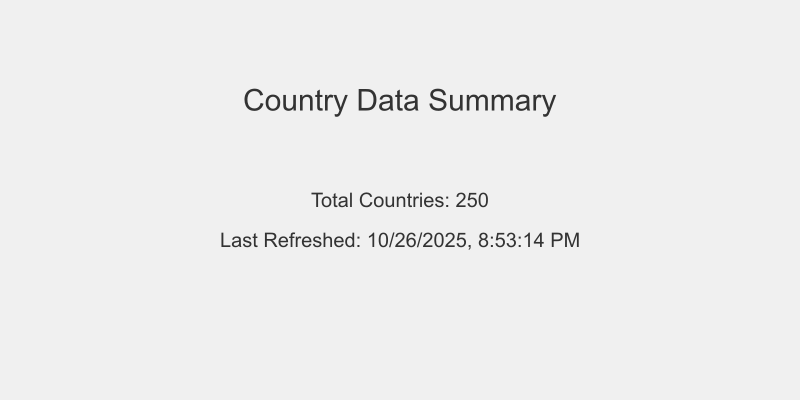
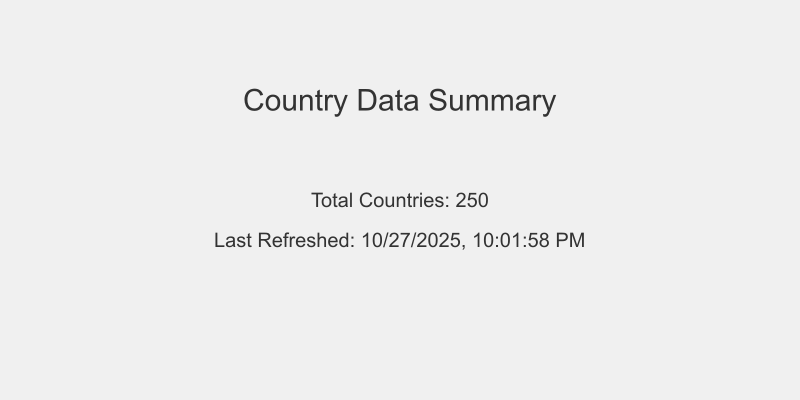
fix: Fix country/refresh issue and updated README.md

Changed region(s): [[0.25, 0.57, 0.75, 0.63]]

diff --git a/server.js b/server.js
@@ -19,13 +19,11 @@ app.use('/country', countryRoutes);
 
 // Define a simple root route
 app.get('/', (req, res) => {
-  res.send('Hello, World!'); // Send a greeting message
+  res.send('Nothing goods comes easy'); // Send a greeting message
 });
 
-// Define a test route
-app.get('/test', (req, res) => {
-  res.status(200).json({ message: 'Tested Successful' }); // Respond with a success message
-});
+
+
 
 sequelize
   .sync({ alter: true }) // <- ensures table is created or updated

diff --git a/src/controller/countryController.js b/src/controller/countryController.js
@@ -16,8 +16,8 @@ const EXCHANGE_URL = process.env.EXCHANGE_API; // URL to fetch exchange rates
 exports.refreshCountries = async (req, res) => {
   try {
     const [countriesRes, ratesRes] = await Promise.all([
-      axios.get(COUNTRIES_API),
-      axios.get(EXCHANGE_API),
+      axios.get(REFRESH_URL),
+      axios.get(EXCHANGE_URL),
     ]);
 
     const countries = countriesRes.data;

diff --git a/README.md b/README.md
@@ -97,10 +97,17 @@ All required environment variables must be defined in `src/conf.env`:
 ### Base URL
 The base URL for all API endpoints is `http://localhost:[PORT]`. For example, if `PORT` is 3000, the base URL is `http://localhost:3000`.
 
-### Endpoints
+### API Testing with cURL
+
+You can test the API endpoints using `curl` from your terminal. Replace `[PORT]` with the actual port your server is running on (e.g., `3000`).
 
 #### GET /
 **Overview**: A simple health check endpoint to confirm the server is operational.
+
+**cURL Example**:
+```bash
+curl http://localhost:[PORT]/
+```
 
 **Response**:
 ```
@@ -109,6 +116,11 @@ Hello, World!
 
 #### GET /test
 **Overview**: A simple test endpoint to confirm basic route functionality.
+
+**cURL Example**:
+```bash
+curl http://localhost:[PORT]/test
+```
 
 **Response**:
 ```json
@@ -119,6 +131,11 @@ Hello, World!
 
 #### POST /country/refresh
 **Overview**: Initiates a comprehensive data refresh. This endpoint fetches country information from `restcountries.com` and currency exchange rates from `open.er-api.com`, then updates or inserts the data into the database. A summary image is generated asynchronously after the database update.
+
+**cURL Example**:
+```bash
+curl -X POST http://localhost:[PORT]/country/refresh
+```
 
 **Request**:
 This endpoint does not require a request payload.
@@ -137,6 +154,18 @@ This endpoint does not require a request payload.
 
 #### GET /country
 **Overview**: Retrieves a list of countries from the database. This endpoint supports filtering by region and currency code, and sorting by estimated GDP.
+
+**cURL Examples**:
+```bash
+# Get all countries
+curl http://localhost:[PORT]/country
+
+# Filter by region
+curl http://localhost:[PORT]/country?region=Africa
+
+# Filter by currency and sort by GDP descending
+curl http://localhost:[PORT]/country?currency=USD&sort=gdp_desc
+```
 
 **Request**:
 Query parameters can be used to filter and sort the results:
@@ -188,6 +217,11 @@ Example: `GET /country?region=Europe&sort=gdp_desc`
 #### GET /country/status
 **Overview**: Provides a summary of the stored country data, including the total number of countries and the timestamp of the most recent data refresh.
 
+**cURL Example**:
+```bash
+curl http://localhost:[PORT]/country/status
+```
+
 **Request**:
 This endpoint does not require a request payload.
 
@@ -201,6 +235,11 @@ This endpoint does not require a request payload.
 
 #### GET /country/image
 **Overview**: Serves the dynamically generated summary image (e.g., `summary.png`) which visualizes the overall country data status.
+
+**cURL Example**:
+```bash
+curl http://localhost:[PORT]/country/image --output summary.png
+```
 
 **Request**:
 This endpoint does not require a request payload.
@@ -216,6 +255,11 @@ This endpoint does not require a request payload.
 
 #### GET /country/:name
 **Overview**: Retrieves detailed information for a single country specified by its name.
+
+**cURL Example**:
+```bash
+curl http://localhost:[PORT]/country/Nigeria
+```
 
 **Request**:
 Path Parameter:
@@ -246,6 +290,11 @@ Example: `GET /country/Nigeria`
 
 #### DELETE /country/:name
 **Overview**: Deletes a country record from the database based on its name.
+
+**cURL Example**:
+```bash
+curl -X DELETE http://localhost:[PORT]/country/Nigeria
+```
 
 **Request**:
 Path Parameter:
